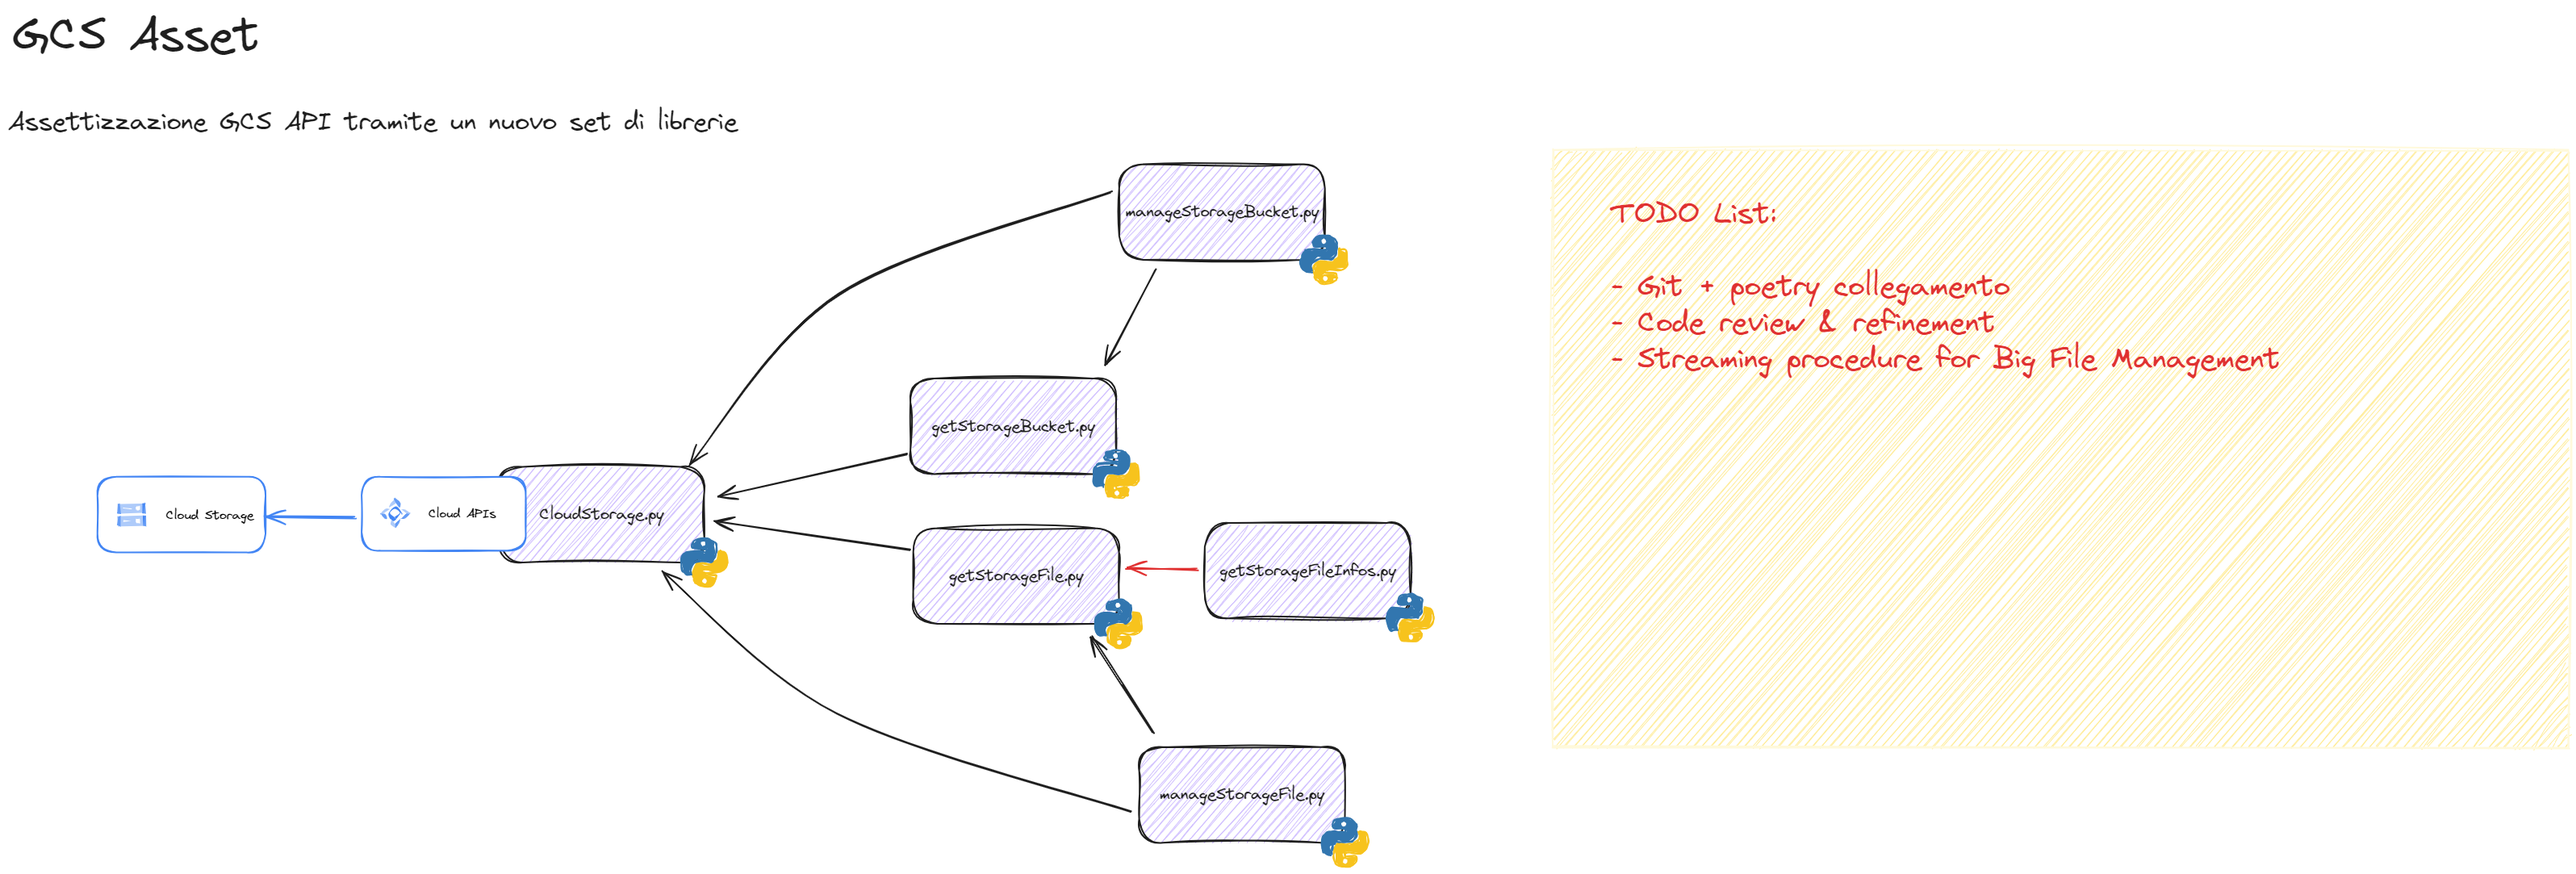
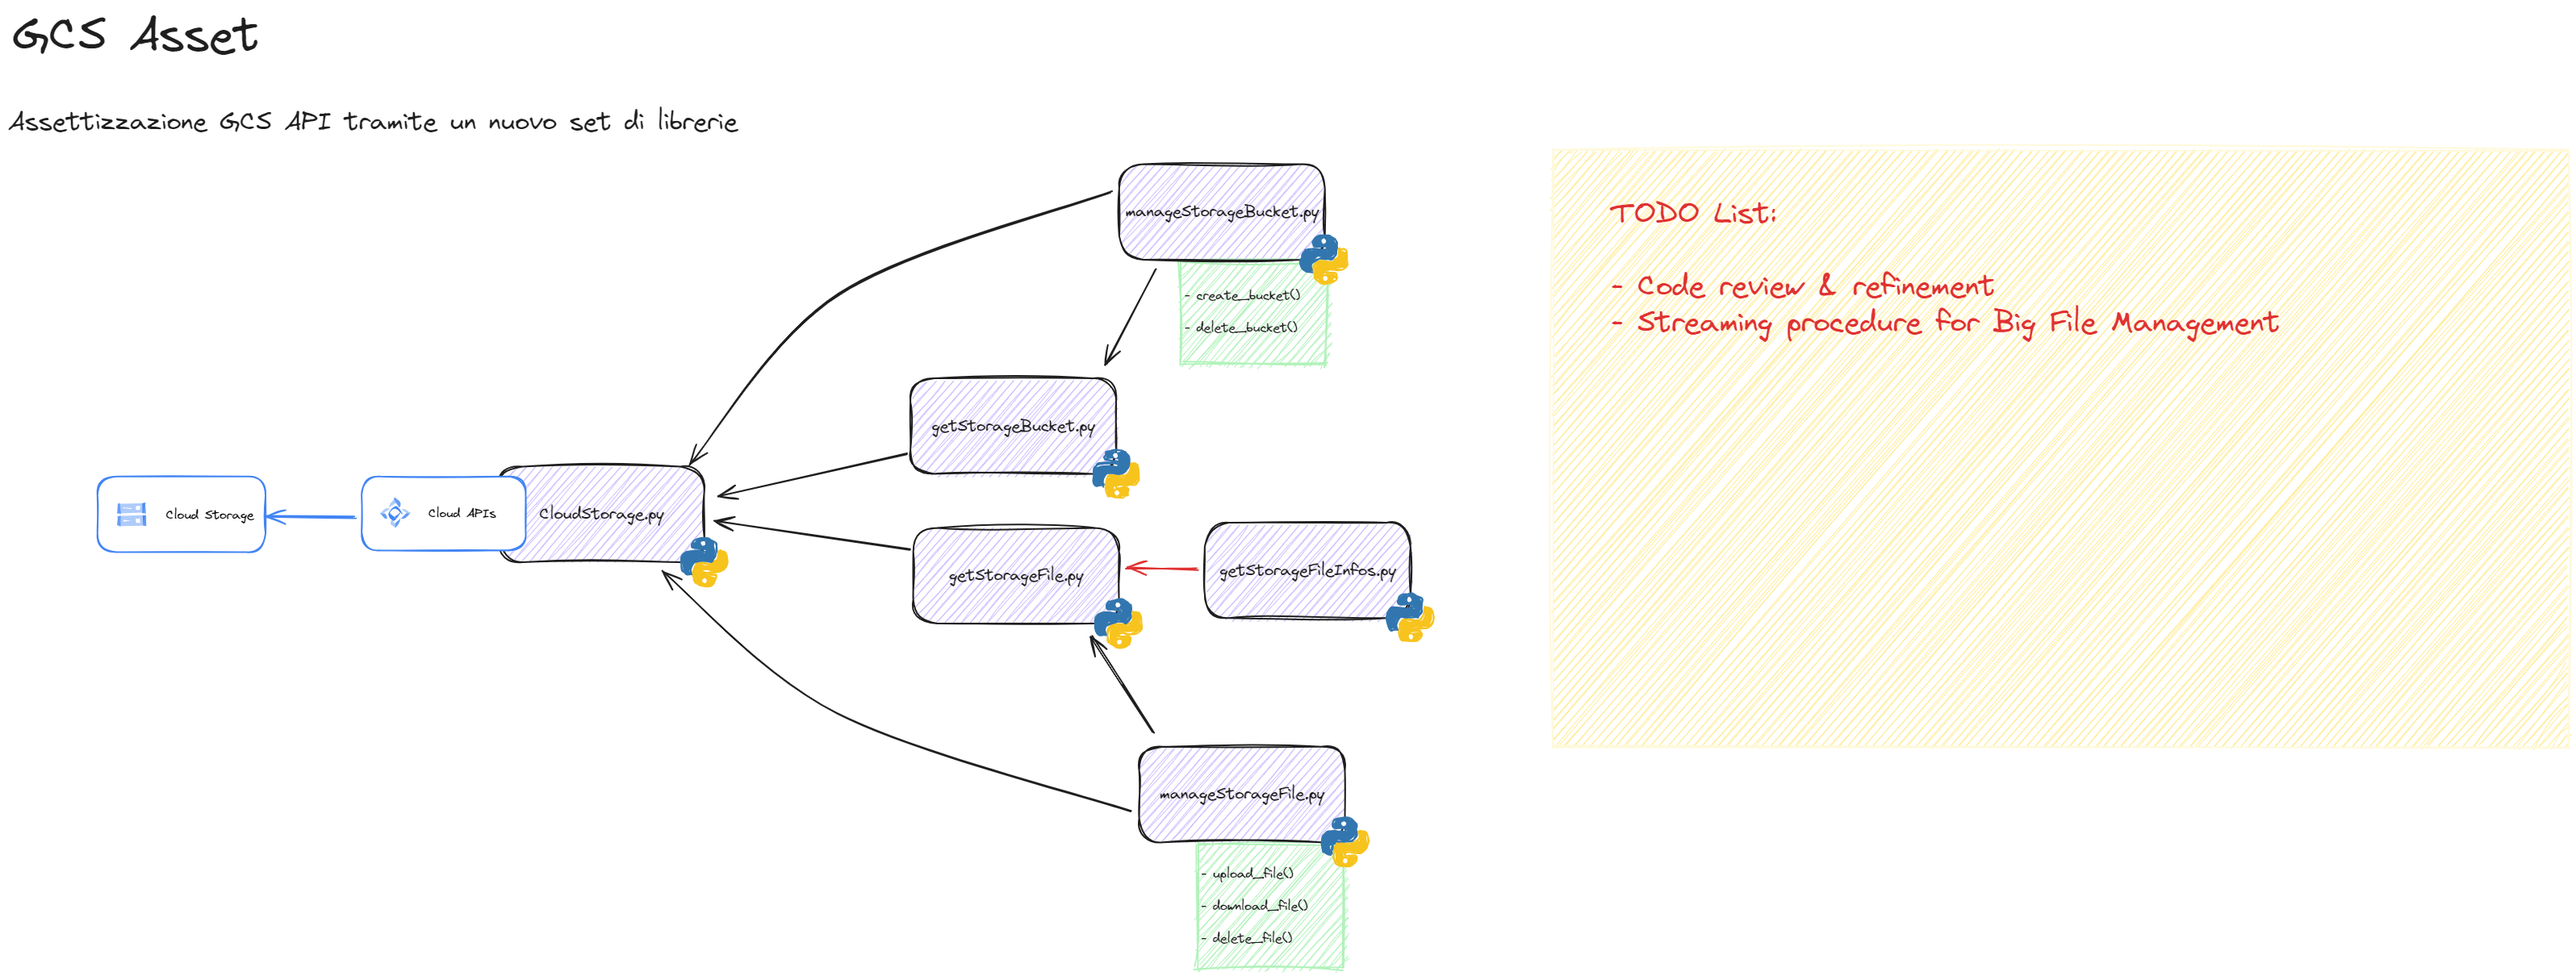
CGS_Asset : Update DOC

diff --git a/src/manageStorageBucket.py b/src/manageStorageBucket.py
@@ -8,7 +8,7 @@ import getStorageBucket
 log = logger.logger()
 client = cloudStorage.storage_client()
 
-def create_new_bucket(bucket_name):
+def create_bucket(bucket_name):
 
     # new_bucket_name = input(f"Bucket to create: ")
 
@@ -29,5 +29,5 @@ def delete_bucket(bucket_name):
     log.info(f"Bucket {bucket_name} deleted!")
     return bucket
 
-# create_new_bucket("asset_storage_bucket_new")
+# create_bucket("asset_storage_bucket_new")
 delete_bucket("asset_storage_bucket_new")
